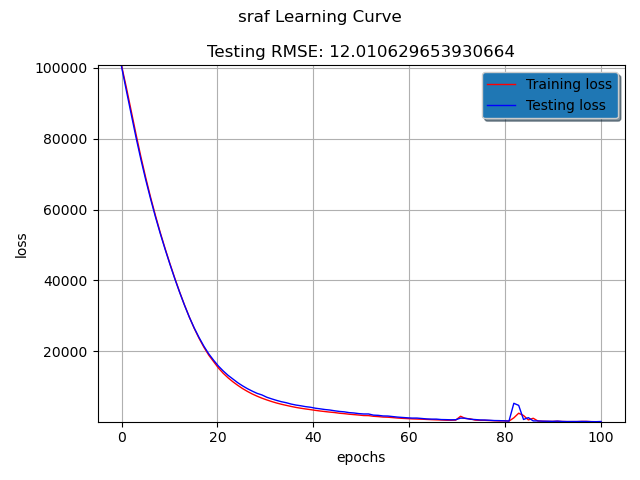
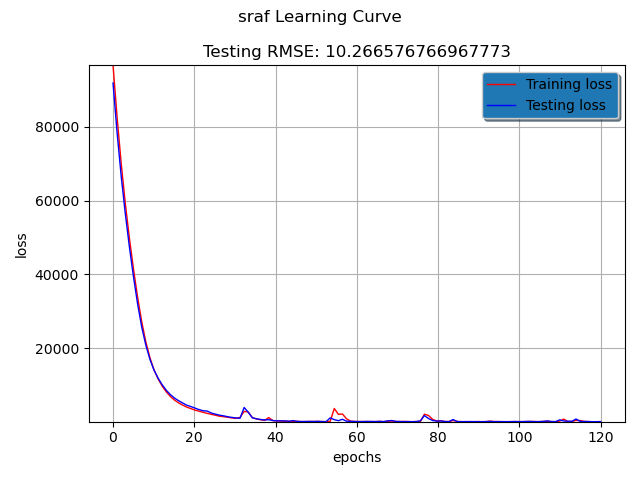
finished all training

diff --git a/src/lstm/train_alldata_novader_nosraf.py b/src/lstm/train_alldata_novader_nosraf.py
@@ -9,7 +9,7 @@ import matplotlib.pyplot as plt
 from keras.optimizers import Adam
 
 
-method_name = 'sraf'
+method_name = 'alldata_novader_nosraf'
 with open('./LSTM_data/' + method_name + '_x' + '.npy', 'rb') as f:
     data_x = np.load(f)
 with open('./LSTM_data/' + method_name + '_y' + '.npy', 'rb') as f:
@@ -31,7 +31,7 @@ model.add(Dense(1)) # 1 output: Price
 
 
 # Train
-epochs = 120 
+epochs = 120
 train_scores = []
 test_scores = []
 
@@ -39,7 +39,7 @@ train_loss = LambdaCallback(on_epoch_end=lambda batch, logs: train_scores.append
 earlystopper = EarlyStopping(monitor='loss', patience=epochs/10)
 model.compile(optimizer=Adam(beta_1=0.9, beta_2=0.999, epsilon=1e-8), loss='mean_squared_error', metrics=[RootMeanSquaredError()])
 test_loss = LambdaCallback(on_epoch_end=lambda batch, logs: test_scores.append(model.evaluate(test_x, test_y)[0]))
-model.fit(train_x, train_y, batch_size=500, epochs=epochs, callbacks=[train_loss, test_loss])
+model.fit(train_x, train_y, batch_size=2000, epochs=epochs, callbacks=[train_loss, test_loss])
 
 result = model.evaluate(test_x,test_y)[1]
 
@@ -60,4 +60,8 @@ legend = plt.legend(loc='upper right', shadow=True, fontsize='medium')
 legend.get_frame().set_facecolor('C0')
 
 plt.show()
+
+
+
+
 

diff --git a/src/lstm/trian_alldata_nosraf.py b/src/lstm/trian_alldata_nosraf.py
@@ -9,7 +9,7 @@ import matplotlib.pyplot as plt
 from keras.optimizers import Adam
 
 
-method_name = 'sraf'
+method_name = 'alldata_nosraf'
 with open('./LSTM_data/' + method_name + '_x' + '.npy', 'rb') as f:
     data_x = np.load(f)
 with open('./LSTM_data/' + method_name + '_y' + '.npy', 'rb') as f:
@@ -31,7 +31,7 @@ model.add(Dense(1)) # 1 output: Price
 
 
 # Train
-epochs = 120 
+epochs = 120
 train_scores = []
 test_scores = []
 
@@ -39,7 +39,7 @@ train_loss = LambdaCallback(on_epoch_end=lambda batch, logs: train_scores.append
 earlystopper = EarlyStopping(monitor='loss', patience=epochs/10)
 model.compile(optimizer=Adam(beta_1=0.9, beta_2=0.999, epsilon=1e-8), loss='mean_squared_error', metrics=[RootMeanSquaredError()])
 test_loss = LambdaCallback(on_epoch_end=lambda batch, logs: test_scores.append(model.evaluate(test_x, test_y)[0]))
-model.fit(train_x, train_y, batch_size=500, epochs=epochs, callbacks=[train_loss, test_loss])
+model.fit(train_x, train_y, batch_size=1000, epochs=epochs, callbacks=[train_loss, test_loss])
 
 result = model.evaluate(test_x,test_y)[1]
 
